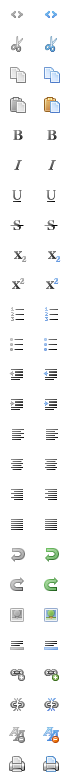
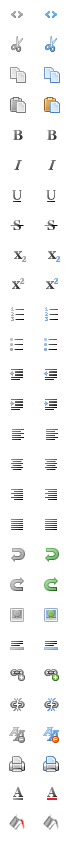
added color selector

Changed region(s): [[0.6176, 0.0, 0.8824, 1.0], [0.1176, 0.0, 0.3824, 1.0]]

diff --git a/ngWYSIWYG/js/wysiwyg.js b/ngWYSIWYG/js/wysiwyg.js
@@ -88,7 +88,35 @@ angular.module('ngWYSIWYG').directive('wframe', ['$compile', '$timeout',
 	}
     }
 ]);
-
+angular.module('ngWYSIWYG').directive('colorsGrid', ['$compile', '$document',
+    function($compile, $document) {
+	var linker = function( scope, element, attrs, ctrl ) {
+	    //click away
+	    $document.on("click", function() {
+		scope.$apply(function() {
+		    scope.show = false;
+		});
+	    });
+	    element.parent().bind('click', function(e) {
+		e.stopPropagation();
+	    });
+	    scope.colors = ['#000000', '#993300', '#333300', '#003300', '#003366', '#000080', '#333399', '#333333', '#800000', '#FF6600', '#808000', '#008000', '#008080', '#0000FF', '#666699', '#808080', '#FF0000', '#FF9900', '#99CC00', '#339966', '#33CCCC', '#3366FF', '#800080', '#999999', '#FF00FF', '#FFCC00', '#FFFF00', '#00FF00', '#00FFFF', '#00CCFF', '#993366', '#C0C0C0', '#FF99CC', '#FFCC99', '#FFFF99', '#CCFFCC', '#CCFFFF', '#99CCFF', '#CC99FF', '#FFFFFF' ];
+	    scope.pick = function( color ) {
+		scope.onPick({color: color});
+	    }
+	}
+	return {
+	    link: linker,
+	    scope: {
+		show: '=',
+		onPick: '&'
+	    },
+	    restrict: 'AE',
+	    template: '<ul ng-show="show" class="colors-grid"><li style="background-color: {{color}};" title: "{{color}}" ng-repeat="color in colors" ng-click="pick(color)"></li></ul>'
+	}
+    }
+]);
+	
 angular.module('ngWYSIWYG').directive('wysiwygEdit', ['$compile', '$timeout', 
     function($compile, $timeout) {
 	var linker = function( scope, $element, attrs, ctrl ) {
@@ -114,7 +142,14 @@ angular.module('ngWYSIWYG').directive('wysiwygEdit', ['$compile', '$timeout',
 		    scope.fontsize = '';
 		}
 	    });
-	    
+	    scope.showFontColors = false;
+	    scope.setFontColor = function( color ) {
+		scope.execCommand('foreColor', color);
+	    }
+	    scope.showBgColors = false;
+	    scope.setBgColor = function( color ) {
+		scope.execCommand('hiliteColor', color);
+	    }
 	    
 	    scope.execCommand = function(cmd, arg) {
 		scope.$emit('execCommand', {command: cmd, arg: arg});

diff --git a/ngWYSIWYG/css/editor.css b/ngWYSIWYG/css/editor.css
@@ -14,3 +14,6 @@ body {margin:0; padding:25px; font:12px Verdana,Arial}
 .toggle {float:left; background:url(../images/icons.png) -34px 2px no-repeat; padding:9px 13px 0 31px; height:23px; border-right:1px solid #ccc; cursor:pointer; color:#666}
 .toggle:hover {background-color:#fff}
 .resize {float:right; height:32px; width:32px; background:url(../images/resize.gif) 15px 15px no-repeat; cursor:s-resize}
+.colors-grid { position: absolute; left: 0; top: 30px; background-color: white; width: 192px; border: black solid 2px; padding: 0; margin: 0; }
+.colors-grid > li { list-style: none; border: white solid 2px; float: left; width: 20px; height: 20px; }
+.colors-grid > li:hover { opacity: 0.7; }
